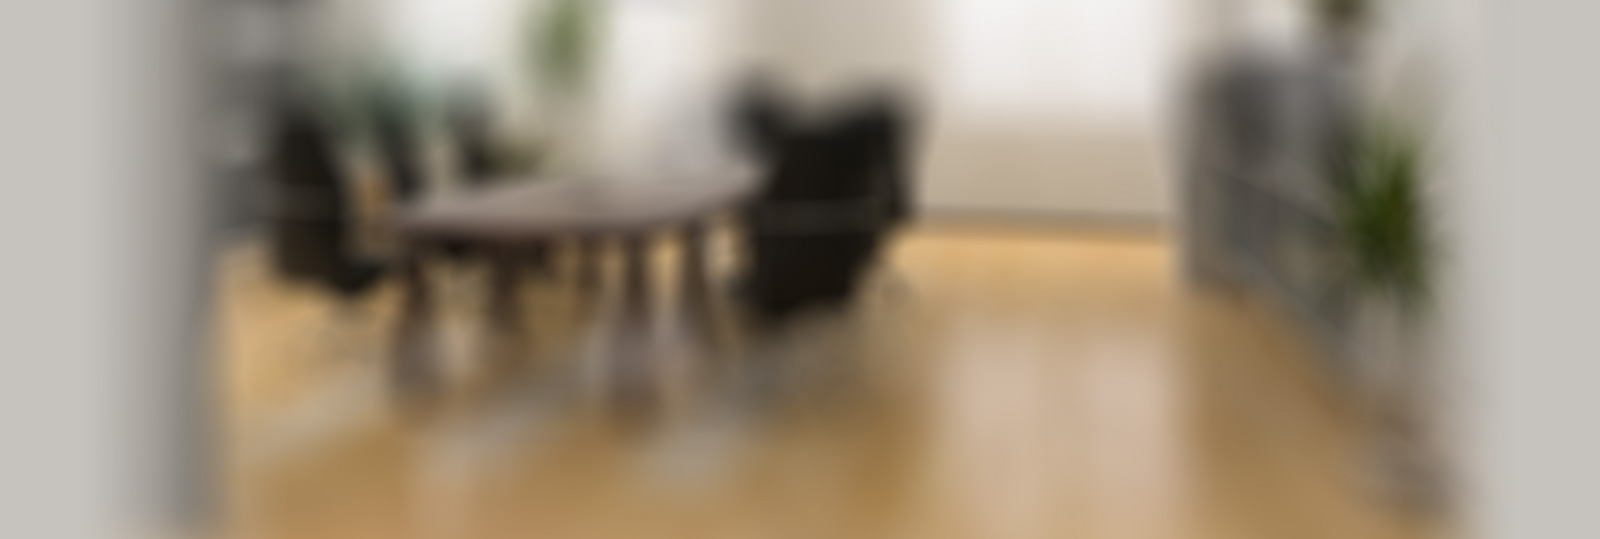
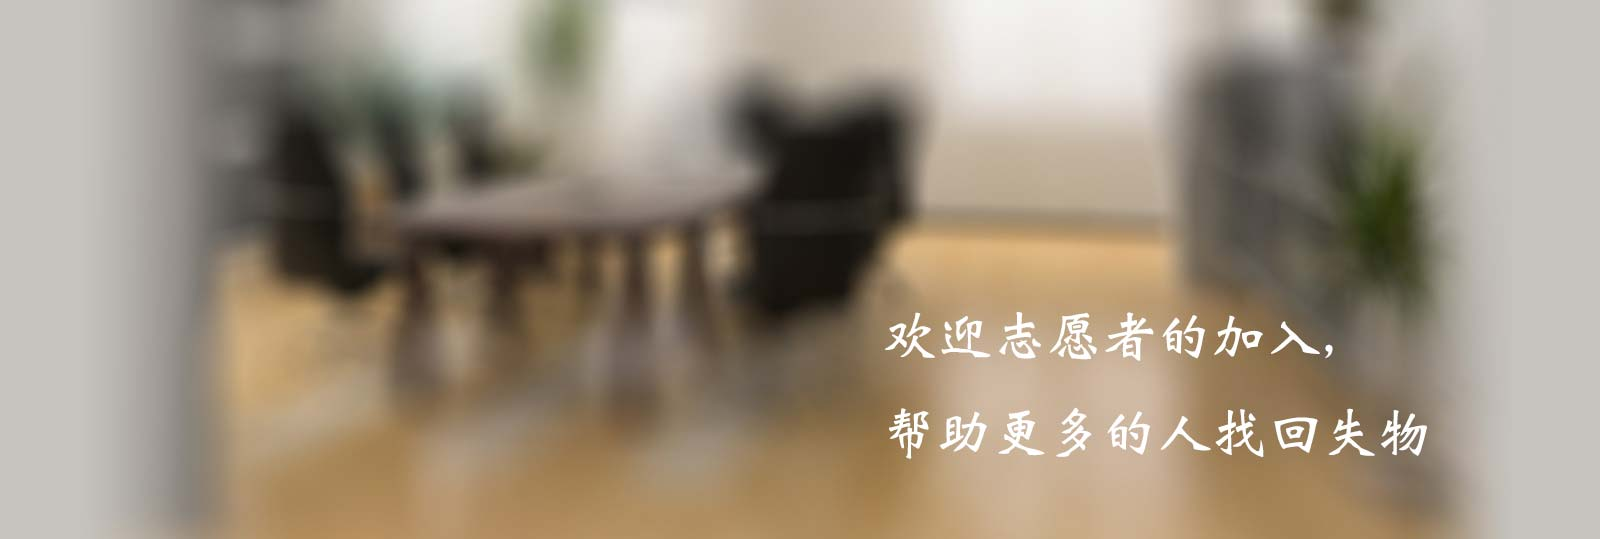
almost done

Changed region(s): [[0.5312, 0.7421, 0.9062, 0.8609], [0.5312, 0.564, 0.8438, 0.6827]]

diff --git a/app/assets/stylesheets/custom.css.scss b/app/assets/stylesheets/custom.css.scss
@@ -322,8 +322,20 @@ p.new_user {
 }
 
 .comments {
-  width: 50%
+  width: 54.8%;
+  margin-left: 22.0%;
+  .comment-input {
+    width: 100%;
+  }
+  .comment-btn {
+    float: right;
+  }
+  .comment {
+    margin-top: 55px;
+  }
 }
+
+
 
 .categories {
   width: 100%;
@@ -367,7 +379,8 @@ div.dataTables_paginate ul.pagination {
   background-color: #fff;
 }
 .bottomimage{
-  background-image: url(image-path('bottom2.jpg'));
+  //background-image: url(image-path('bottom2.jpg'));
+  background-color: rgb(82, 96, 112);
   height:300px;
 }
 .message1{
@@ -377,10 +390,12 @@ div.dataTables_paginate ul.pagination {
 .message1 h3{
 
     font-size:16px;
-    color:#ccc;
+    font-weight: lighter;
+    font-family: cursive;
+    color:#fff;
     // font-family:"KaiTi";
-    letter-spacing:5px;
-    text-indent: 4em;
+    letter-spacing:4px;
+    text-indent: 2em;
     line-height:17pt;
   }
 
@@ -390,7 +405,7 @@ div.dataTables_paginate ul.pagination {
     margin-top: 50px;
     width:700px;
     height:400px;
-    background-color:#fff;
+    background-color:rgb(240, 255, 235);
     p{
       margin-bottom: 30px;
     }
@@ -403,7 +418,6 @@ div.dataTables_paginate ul.pagination {
     height:200px;
     .comments{
       width:600px;
-      height:100px;
     }
   }
   .showleft{
@@ -415,7 +429,7 @@ div.dataTables_paginate ul.pagination {
   .showimage{
 
     width:150px;
-    height:112px;
+    height:150px;
     border:2px solid #ccc;
 
     margin:50px 70px;
@@ -436,8 +450,15 @@ div.dataTables_paginate ul.pagination {
 
   float:left;
   h3{
-
     padding-top: 45px;
+  }
+  .item-showpage-link {
+    float: right;
+    margin-right: 45px;
+    margin-top: 55px;
+  }
+  .showhead-title {
+    float: left;
   }
 }
 
@@ -458,6 +479,7 @@ div.dataTables_paginate ul.pagination {
   width:100%;
   height:20%;
   float:left;
+  padding-top: 15px;
   /*background-color: black;*/
 }
 .showicon{
